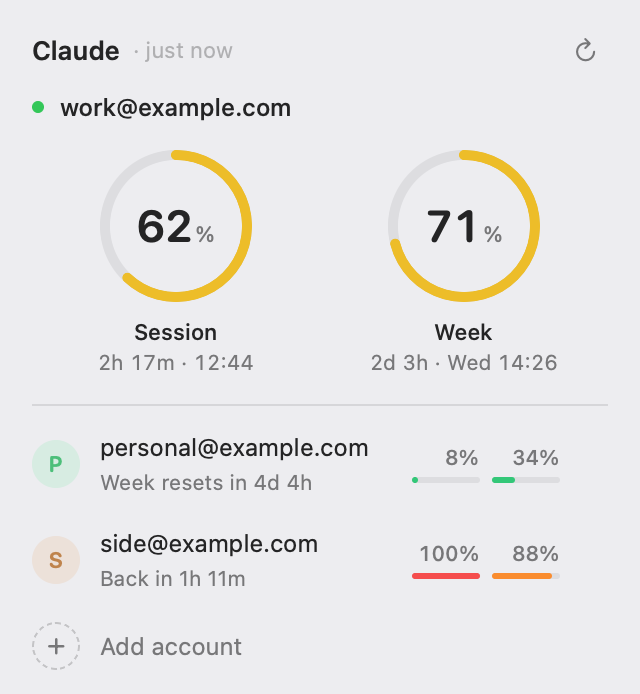
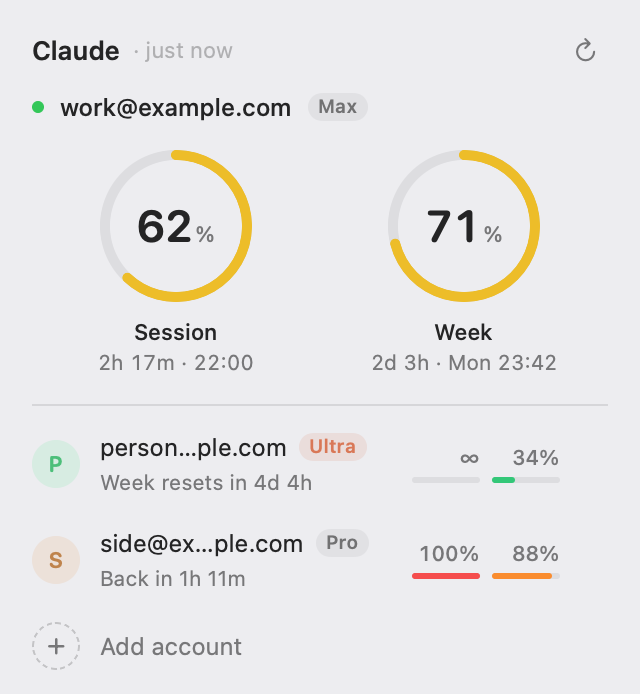
docs: describe plan badges and the no-session-limit state; refresh screenshots

diff --git a/README.md b/README.md
@@ -13,7 +13,9 @@ See your limits at a glance, switch in one click, and let it switch for you befo
 ## Features
 
 - **Limits in the menu bar.** Two bars, one for the 5-hour session and one for the week, plus the
-  tighter of the two as a number. ![Menu bar](docs/screenshots/tray-dark.png)
+  tighter of the two as a number. A verified Ultra account has no 5-hour limit, so it gets a single
+  bar for the week and its Session gauge shows ∞. ![Menu bar](docs/screenshots/tray-dark.png)
+- **Plan badges.** Each account shows its plan (Ultra, Max, Pro, …) as claude.ai names it.
 - **One-click switching.** Click an account to make it Claude Code's login. Running sessions pick it
   up within about 30 seconds.
 - **Auto-switch** (off by default). When the active account reaches 95% (or looks set to hit 100%
